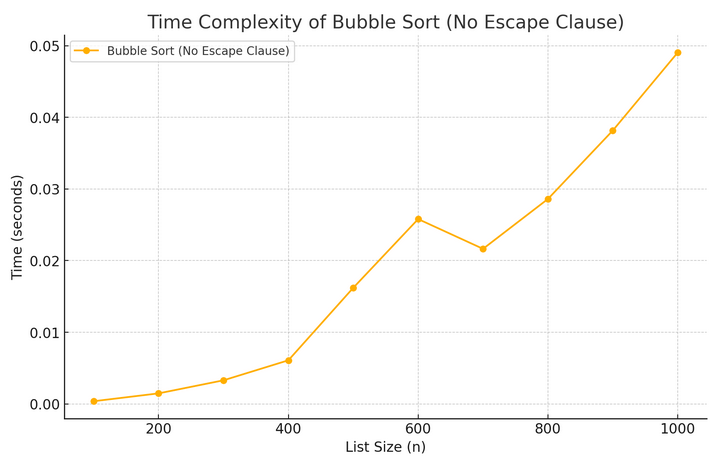
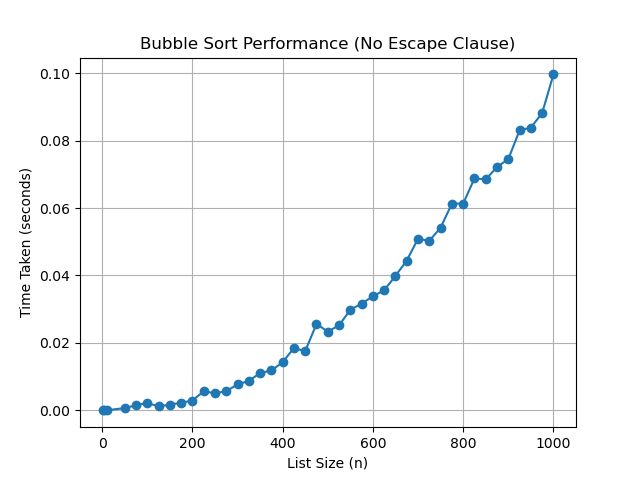
Finish Bubble Sort

diff --git a/lab6-bubblesort-with-escape.py b/lab6-bubblesort-with-escape.py
@@ -1,27 +1,37 @@
 import time
-import random
 import matplotlib.pyplot as plt
 
-# Bubble sort function with no escape clause
-def bubble_sort(arr):
+# Bubble sort function with an escape clause
+def bubble_sort_with_escape(arr):
     n = len(arr)
+    
     for i in range(n):
-        for j in range(0, n - 1):
+        swapped = False  # Escape clause: track if a swap occurred
+        
+        # Inner loop to perform the swaps
+        for j in range(0, n - 1 - i):  # Optimize by reducing the comparison range
             if arr[j] > arr[j + 1]:
-                arr[j], arr[j + 1] = arr[j + 1], arr[j]
+                arr[j], arr[j + 1] = arr[j + 1], arr[j]  # Swap
+                swapped = True  # A swap occurred
+        
+        # If no swap happened, the list is already sorted
+        if not swapped:
+            break
+    
+    return arr
 
-# Function to test performance of bubble sort on lists of different sizes
-def test_bubble_sort_performance():
+# Function to test performance of bubble sort on best-case situations
+def test_bubble_sort_best_case_performance():
     sizes = [1, 5, 10, 50, 75, 100, 125, 150, 175, 200, 225, 250, 275, 300, 325, 350, 375, 400, 425, 450, 475, 500, 525, 550, 575, 600, 625, 650, 675, 700, 725, 750, 775, 800, 825, 850, 875, 900, 925, 950, 975, 1000]  # Different list sizes
     results = []
     
     for size in sizes:
-        # Generate a random list of the given size
-        arr = [random.randint(0, size) for _ in range(size)]
+        # Generate a sorted list for the best case
+        arr = list(range(size))  # Best case: already sorted
         
         # Time the sorting process
         start_time = time.time()
-        bubble_sort(arr)
+        bubble_sort_with_escape(arr)
         end_time = time.time()
         
         # Record the time taken
@@ -30,17 +40,56 @@ def test_bubble_sort_performance():
     
     return results
 
-# Run the performance test
-performance_results = test_bubble_sort_performance()
+# Function to test performance of bubble sort on worst-case situations
+def test_bubble_sort_worst_case_performance():
+    sizes = [1, 5, 10, 50, 75, 100, 125, 150, 175, 200, 225, 250, 275, 300, 325, 350, 375, 400, 425, 450, 475, 500, 525, 550, 575, 600, 625, 650, 675, 700, 725, 750, 775, 800, 825, 850, 875, 900, 925, 950, 975, 1000]  # Different list sizes
+    results = []
+    
+    for size in sizes:
+        # Generate a reversed list for the worst case
+        arr = list(range(size, 0, -1))  # Worst case: reverse sorted
+        
+        # Time the sorting process
+        start_time = time.time()
+        bubble_sort_with_escape(arr)
+        end_time = time.time()
+        
+        # Record the time taken
+        duration = end_time - start_time
+        results.append((size, duration))
+    
+    return results
+
+# Run the performance tests
+best_case_results = test_bubble_sort_best_case_performance()
+worst_case_results = test_bubble_sort_worst_case_performance()
 
 # Extract list sizes and corresponding times
-sizes = [size for size, duration in performance_results]
-times = [duration for size, duration in performance_results]
+best_sizes = [size for size, duration in best_case_results]
+best_times = [duration for size, duration in best_case_results]
 
-# Plot the graph
-plt.plot(sizes, times, marker='o')
-plt.title('Bubble Sort Performance (No Escape Clause)')
+worst_sizes = [size for size, duration in worst_case_results]
+worst_times = [duration for size, duration in worst_case_results]
+
+# Plot the graphs
+plt.figure(figsize=(12, 6))
+
+# Best Case
+plt.subplot(1, 2, 1)
+plt.plot(best_sizes, best_times, marker='o', color='green', label='Best Case (O(n))')
+plt.title('Best Case Performance of Bubble Sort')
 plt.xlabel('List Size (n)')
 plt.ylabel('Time Taken (seconds)')
 plt.grid(True)
+plt.legend()
+
+# Worst Case
+plt.subplot(1, 2, 2)
+plt.plot(worst_sizes, worst_times, marker='o', color='red', label='Worst Case (O(n^2))')
+plt.title('Worst Case Performance of Bubble Sort')
+plt.xlabel('List Size (n)')
+plt.ylabel('Time Taken (seconds)')
+plt.grid(True)
+plt.legend()
+plt.tight_layout()
 plt.show()

diff --git a/lab6-bubblesort-without-escape.py b/lab6-bubblesort-without-escape.py
@@ -1,16 +1,47 @@
 import time
 import random
+import matplotlib.pyplot as plt
+
+# Bubble sort function with no escape clause
 def bubble_sort(arr):
     n = len(arr)
-    # Perform n-1 passes over the array
     for i in range(n):
-        # Compare each pair of adjacent elements
-        for j in range(0, n-i-1):
-            if arr[j] > arr[j+1]:
-                # Swap if the elements are in the wrong order
-                arr[j], arr[j+1] = arr[j+1], arr[j]
+        for j in range(0, n - 1):
+            if arr[j] > arr[j + 1]:
+                arr[j], arr[j + 1] = arr[j + 1], arr[j]
 
-# Example usage
-arr = [64, 34, 25, 12, 22, 11, 90]
-bubble_sort(arr)
-print("Sorted array:", arr)
+# Function to test performance of bubble sort on lists of different sizes
+def test_bubble_sort_performance():
+    sizes = [1, 5, 10, 50, 75, 100, 125, 150, 175, 200, 225, 250, 275, 300, 325, 350, 375, 400, 425, 450, 475, 500, 525, 550, 575, 600, 625, 650, 675, 700, 725, 750, 775, 800, 825, 850, 875, 900, 925, 950, 975, 1000]  # Different list sizes
+    results = []
+    
+    for size in sizes:
+        # Generate a random list of the given size
+        arr = [random.randint(0, size) for _ in range(size)]
+        
+        # Time the sorting process
+        start_time = time.time()
+        bubble_sort(arr)
+        end_time = time.time()
+        
+        # Record the time taken
+        duration = end_time - start_time
+        results.append((size, duration))
+    
+    return results
+
+# Run the performance test
+performance_results = test_bubble_sort_performance()
+
+# Extract list sizes and corresponding times
+sizes = [size for size, duration in performance_results]
+times = [duration for size, duration in performance_results]
+
+# Plot the graph
+plt.plot(sizes, times, marker='o')
+plt.title('Bubble Sort Performance (No Escape Clause)')
+plt.xlabel('List Size (n)')
+plt.ylabel('Time Taken (seconds)')
+plt.grid(True)
+plt.show()
+
